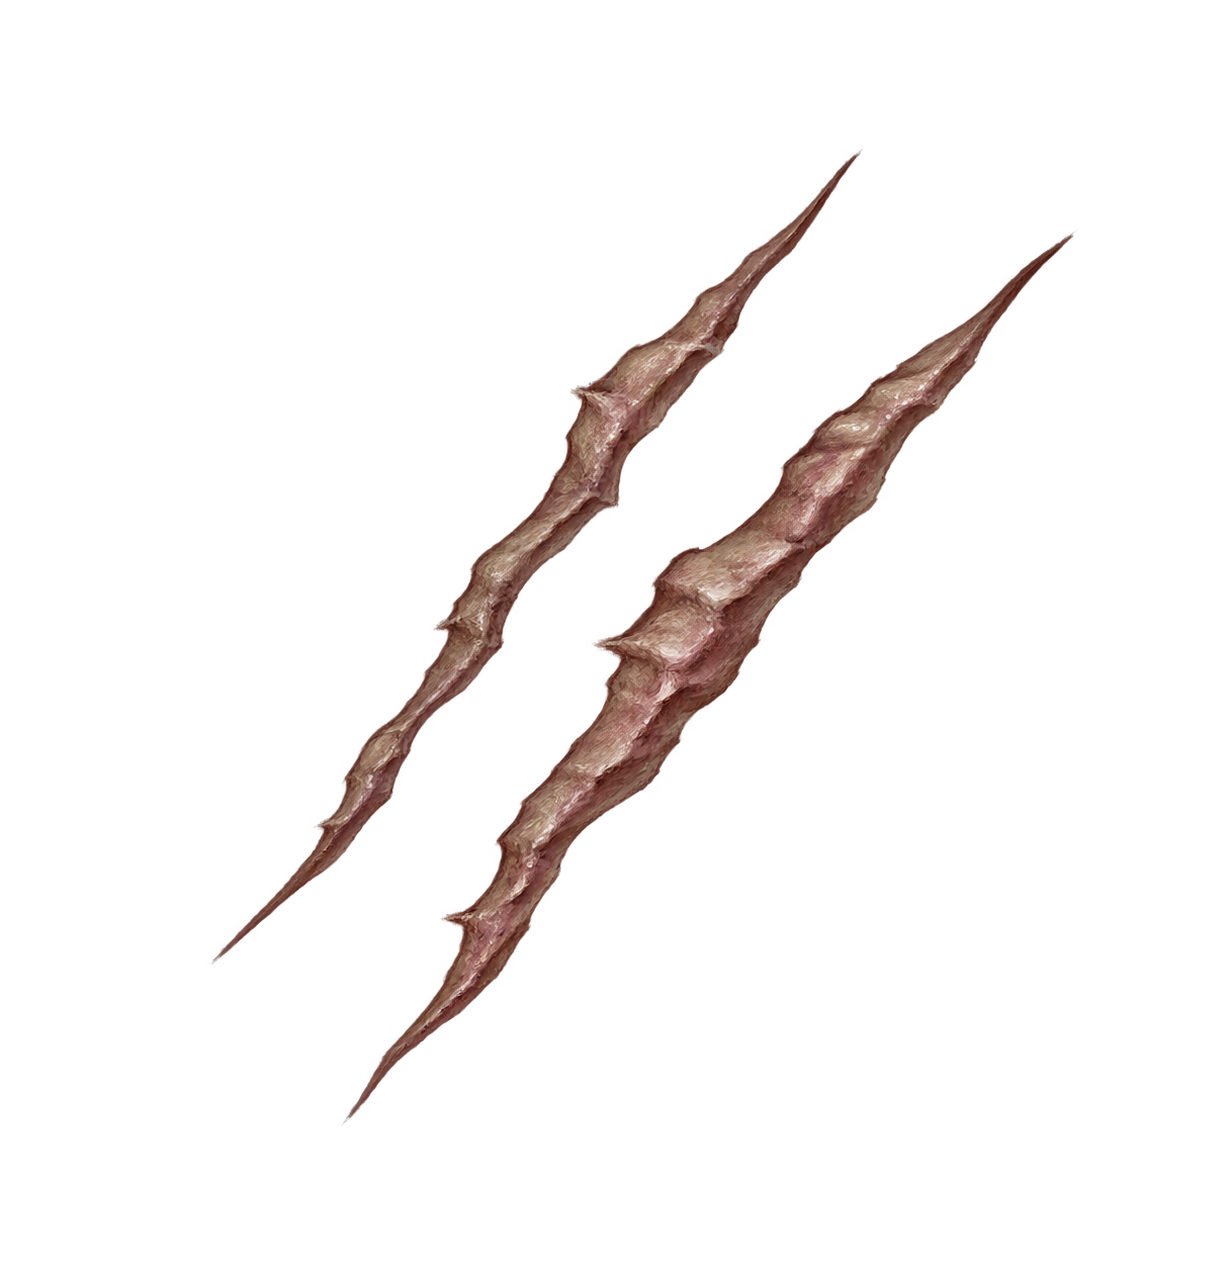
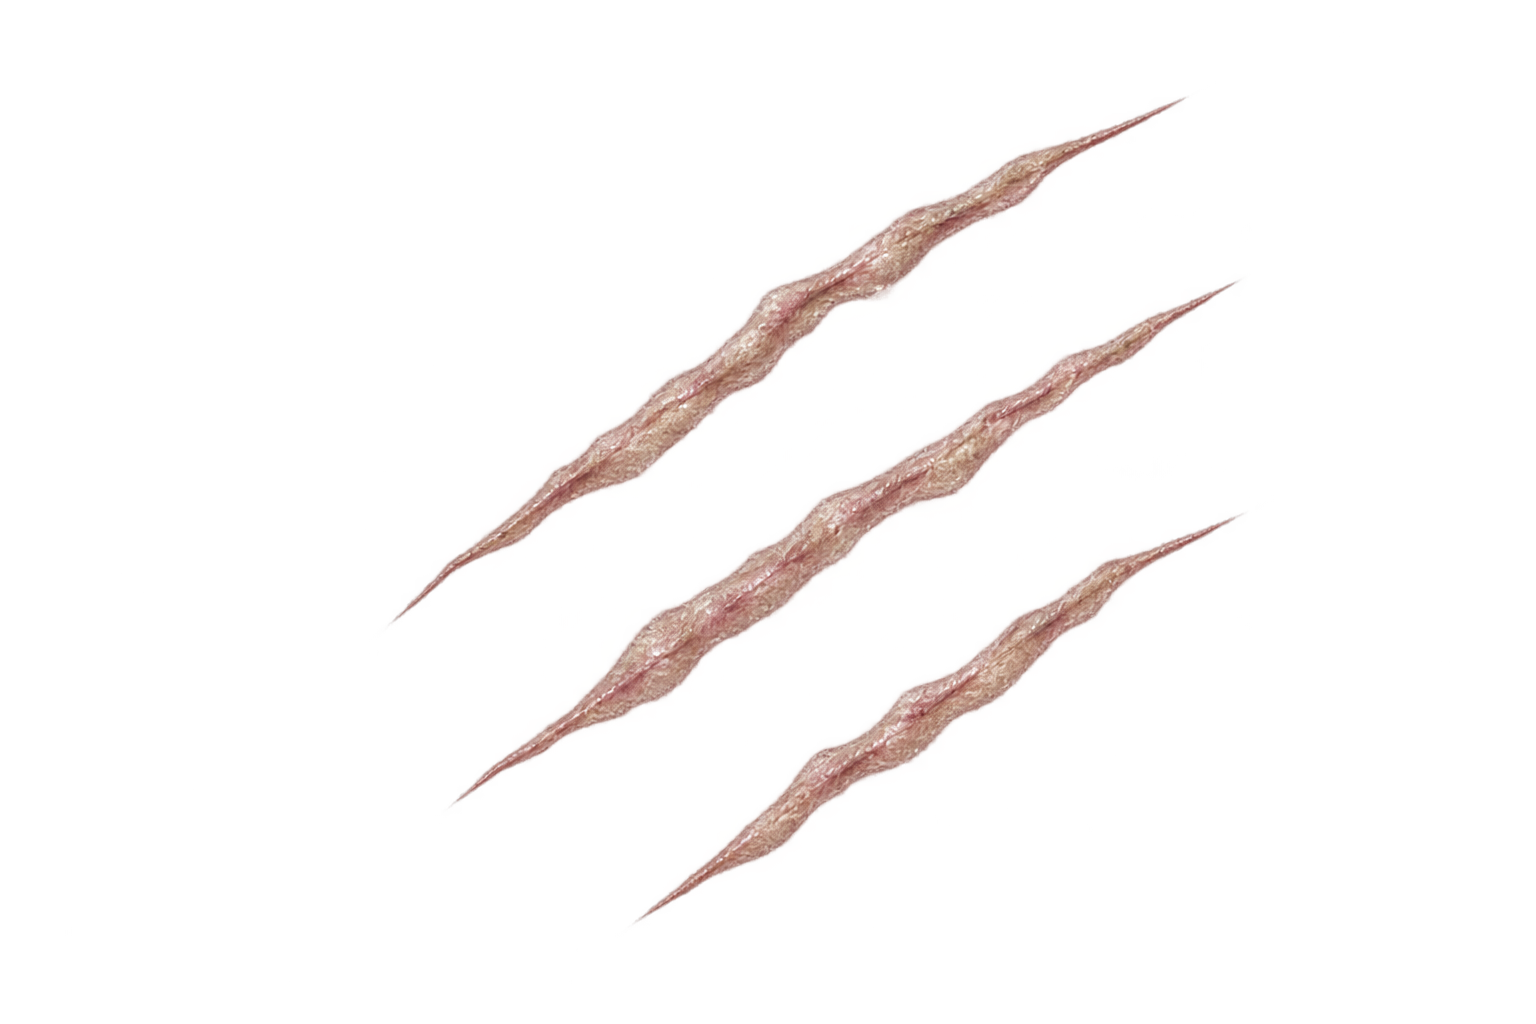
fix: generate three distinct male goblin scratch scars

diff --git a/materials/portraits/generated-features/Goblin.mesh/prompts.md b/materials/portraits/generated-features/Goblin.mesh/prompts.md
@@ -64,7 +64,7 @@ Generate a NEW standalone customization asset for an adult male Goblin. Image is
 
 ## scar - 2 - scratches
 
-Generate a NEW standalone customization asset for an adult male Goblin. Image is anatomy, palette, clothing and brushwork reference only. Variation: three small parallel healed scratches. Output ONLY requested scar or paint marks; no face or skin silhouette. Hand-painted late-1990s dark fantasy strategy game style matching reference. Species anatomy unchanged, do not add tusks or fangs absent from reference.  Complete contour centered with transparent padding, genuine alpha background, no glow, fog, shadows, scenery, text, symbols or complete portrait. Reference clothing coverage preserved. Direct isolated-feature generation, never full-image cropping.
+Generate ONLY THREE separate small healed scratch scars as a standalone transparent game customization overlay. Exactly three parallel diagonal scars, evenly spaced, similar length. Count clearly: scar one, scar two, scar three. Pale pink and muted beige healed scar tissue in hand-painted dark fantasy game style, each narrow and subtle, NO fresh wound or blood. Complete contours with transparent gaps between all THREE marks and transparent padding. Genuine alpha background. No face, head, body, skin rectangle, scenery or text. Direct isolated asset generation, no full portrait or cropping.
 
 ## scar - 3 - warpaint
 
